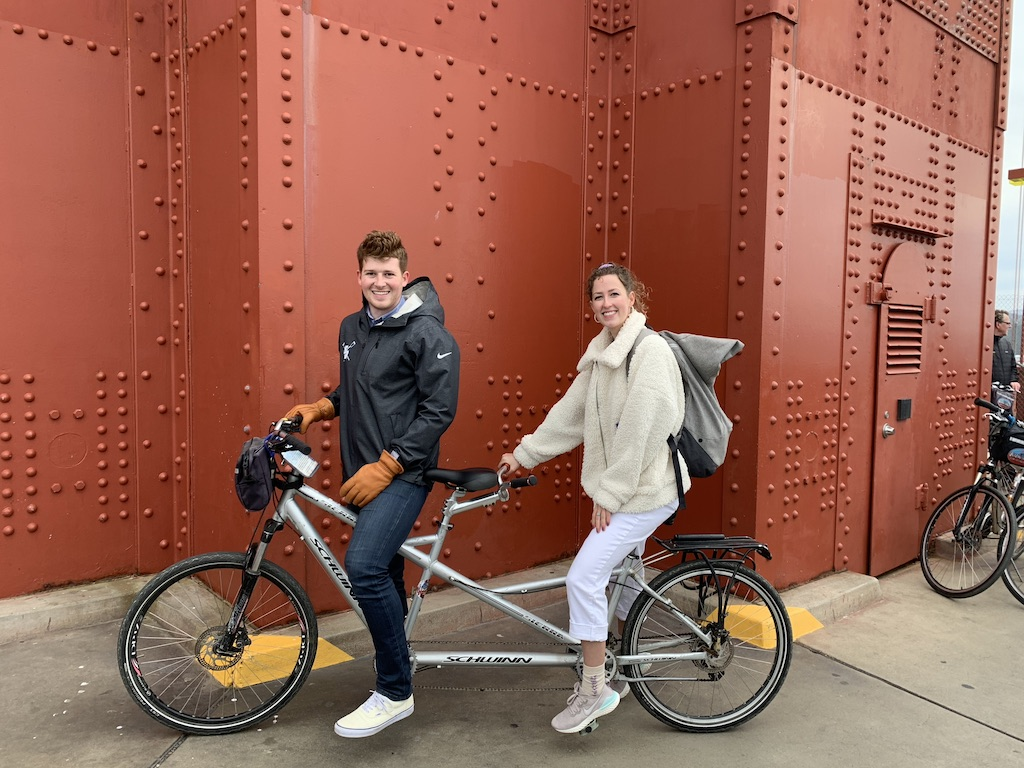
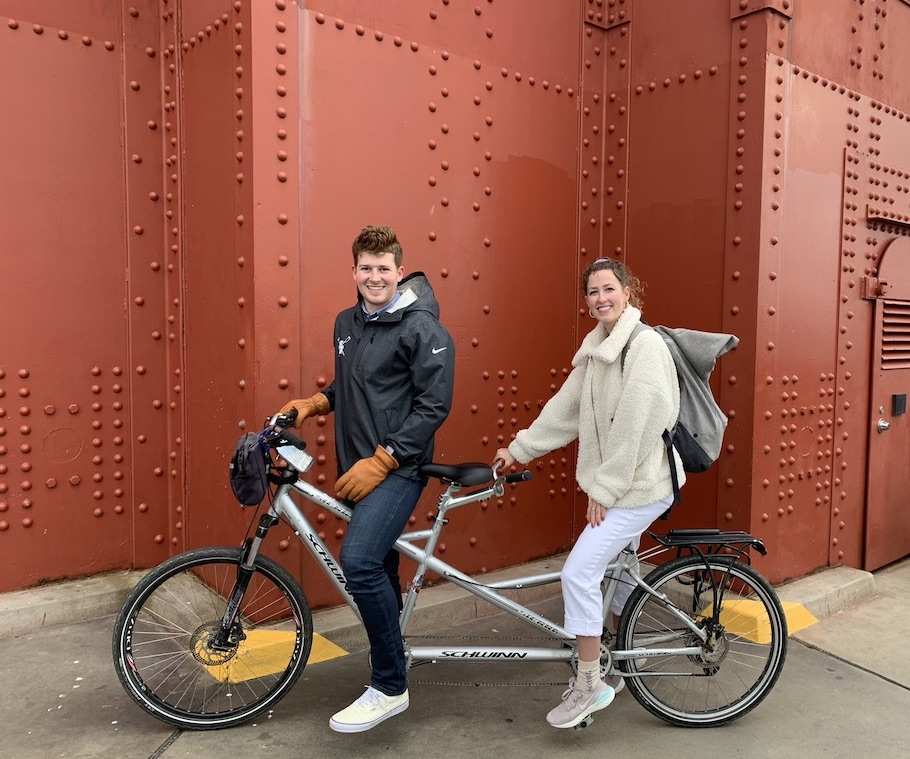
Added confession-of-love-pt-ii

diff --git a/index.html b/index.html
@@ -716,6 +716,22 @@
 					<div class="row timeline-row">
 						<div class="col-5 left-timeline-item os-animation" data-animation="fadeInUp">
 							<div class="card">
+								<img src="img/confession-of-love-pt-ii.jpg" class="card-img-top" alt="Will and Alexx atop Valparaiso Hill">
+								<div class="card-body">
+									<h4 class="card-title">Confession of Love (Pt. II)</h4>
+									<h6 class="card-subtitle text-muted">January 20th, 2020</h6>
+									<hr>
+									<p>"You know for a long time I didn’t let myself acknowledge how I was feeling about you, because there was so much uncertainty at the start of our relationship. even when we chose to do long distance I still had those walls up because I was scared. When you told me that you love me I was flooded with happiness, but I was also overwhelmed because everything was happening so fast and I didn’t have time to process everything. I knew in that moment that it wasn’t mine, it was yours. And I wanted to be really sure before I said it back. Will, you make me so happy, the happiest I have ever been I think in my whole life. You complete me in ways I didn’t even know I needed, you are my blind spot. I know I have been feeling this for a long time even though I was running from it. I just wanted to be really sure because I have never experienced love like this, but I love you so much Will. I harbor so much fear in my life these days, and I’m not going to get let that encompass how I feel about you. I’m all in Will and I think I have know that since the night we met."</p>
+								</div>
+							</div>
+						</div>
+						<div class="col-2 center-timeline-item"><div class="vertical"></div>&nbsp;</div>
+						<div class="col-5 right-timeline-item os-animation" data-animation="fadeInUp"></div>
+					</div>
+
+					<div class="row timeline-row">
+						<div class="col-5 left-timeline-item os-animation" data-animation="fadeInUp">
+							<div class="card">
 								<img src="img/whats-next.png" class="card-img-top" alt="Smiley emoji overlayed on a cloud icon">
 								<div class="card-body">
 									<h4 class="card-title">What's Next?</h4>
